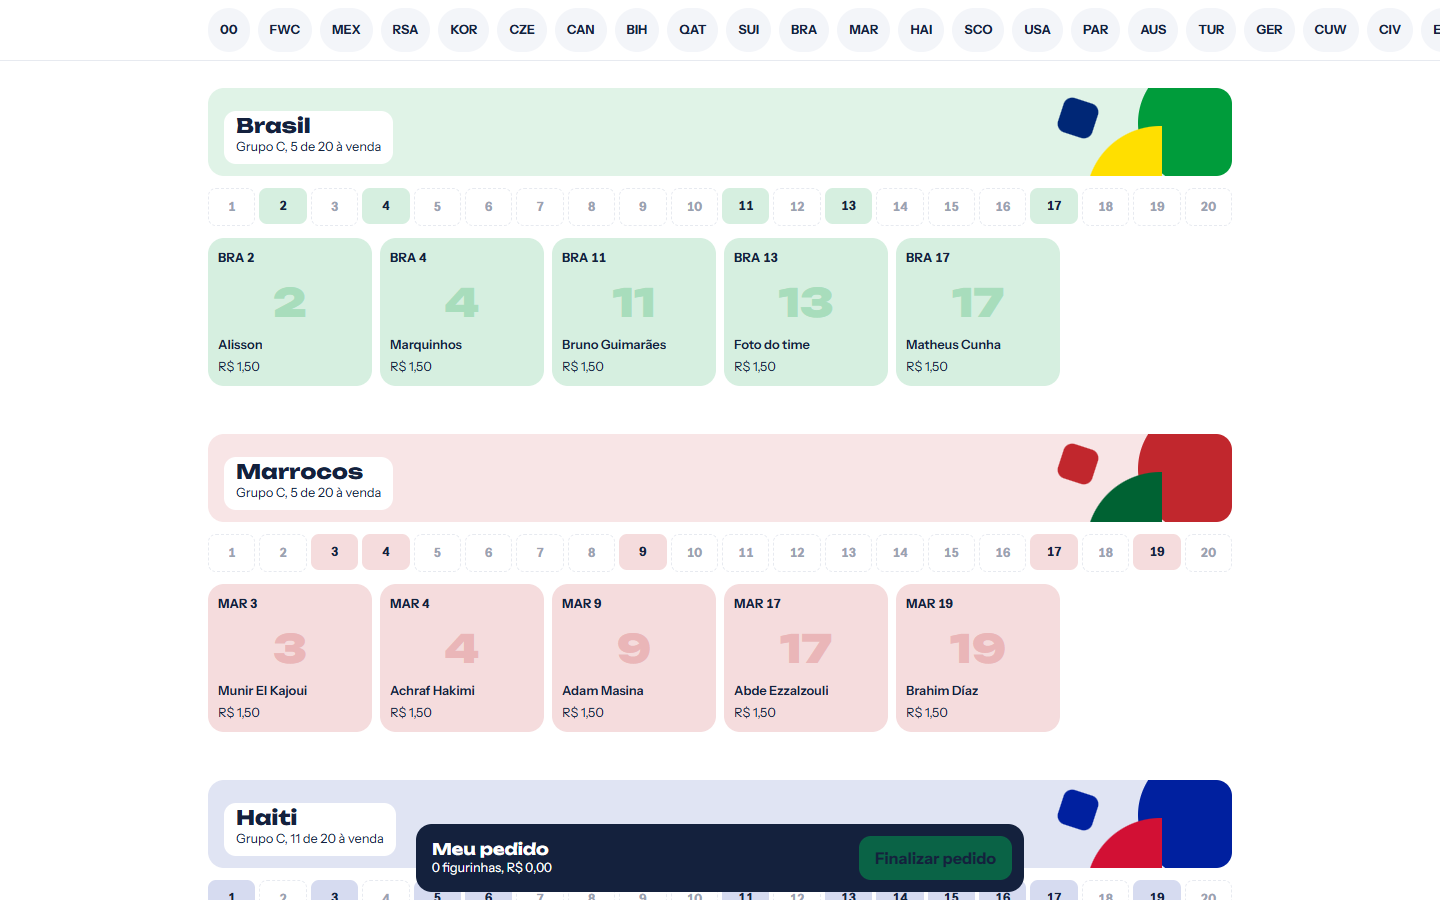
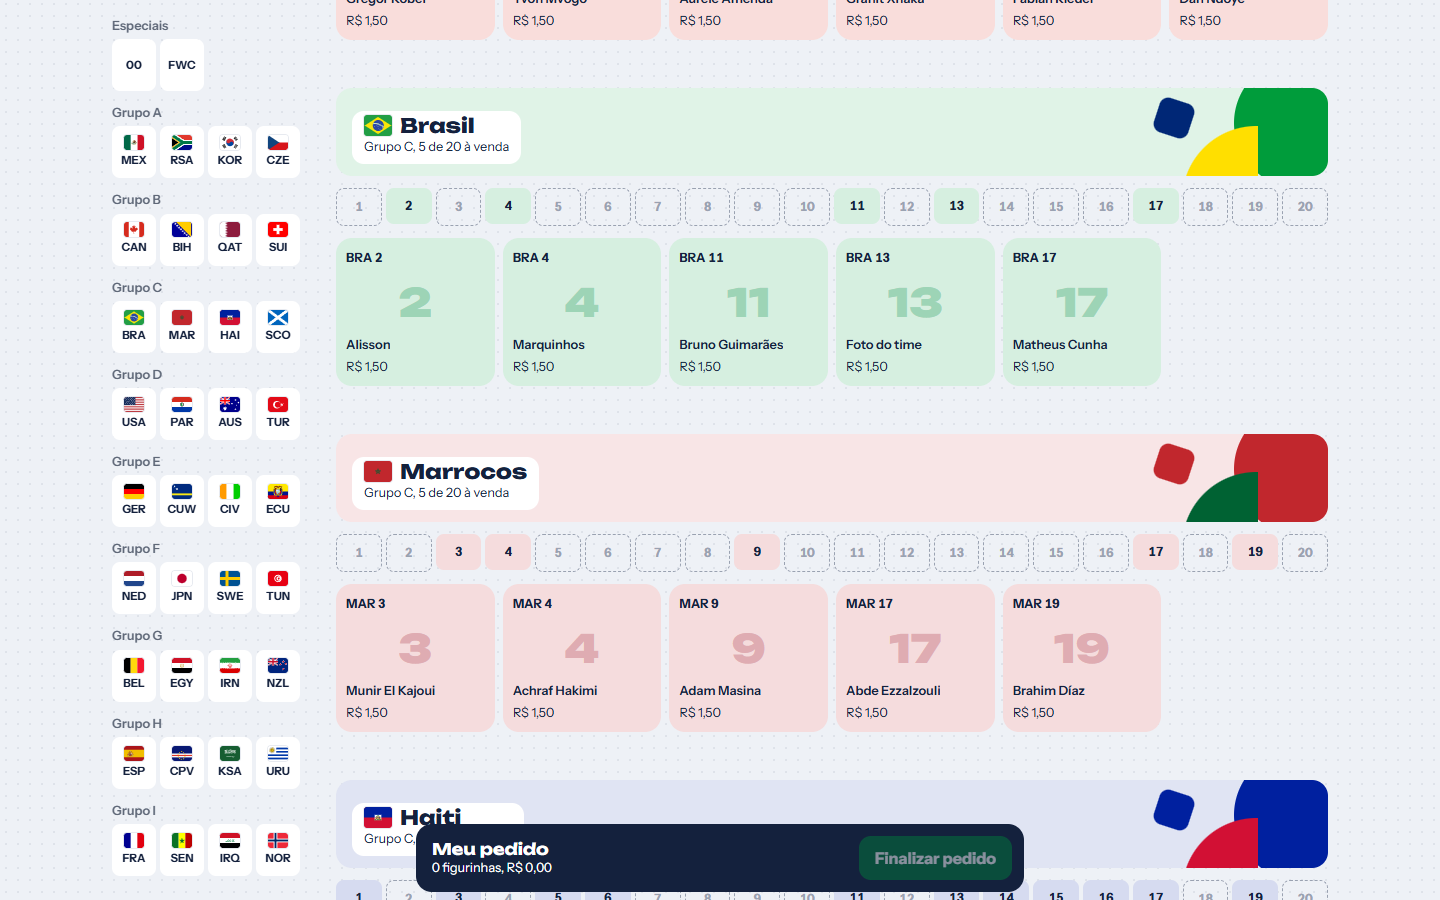
docs: fundo, bandeiras, índice lateral e ausência de imagens das figurinhas

diff --git a/docs/design-system.md b/docs/design-system.md
@@ -60,6 +60,10 @@ Das três variações do protótipo, a escolha foi uma **mistura**, montada como
 
 - **Tema:** só claro. Sem botão de tema e sem seguir a preferência do sistema.
 - **Layout:** mobile-first. No celular, o conteúdo ocupa a tela com margem de 1rem. Em telas largas, fica numa coluna de no máximo `--largura-conteudo` (64rem), centralizada, com a grade de espaços se adaptando à largura (3 colunas no celular, 6 no desktop), a tira de números numa linha só e a barra do pedido como pílula centralizada de até `--largura-leitura` (38rem). [Tela no desktop](./design/layout-desktop.png).
+- **Índice de seleções:** no celular é uma lista horizontal de arrastar. No desktop largo (a partir de 72rem), vira uma **barra lateral fixa agrupada por Grupo**, como a tabela de grupos da Copa, e a coluna de conteúdo cresce para 76rem.
+- **Fundo:** azul-acinzentado bem claro (`#EEF1F6`) com uma **retícula de impressão** sutil (`--textura-fundo`), e os elementos de destaque (espaços, rótulos, caixas, campos) em **superfície branca** por cima. O branco puro em tela cheia cansava a vista, e isso resolve para todo mundo, sem precisar de tema escuro. Bege foi evitado de propósito, porque é o clichê nº 1 de design gerado por IA. Com o fundo novo, o teste de contraste reprovou o verde de ação antigo, que foi escurecido para `#007A3B`, com texto branco.
+- **Bandeiras:** SVGs do projeto open source [flag-icons](https://github.com/lipis/flag-icons) (licença MIT, cópia em [`src/assets/bandeiras/LICENSE`](../src/assets/bandeiras/LICENSE)), só as 48 que usamos. Aparecem no índice e no rótulo de cada Seção, sempre com um contorno fino, para as bandeiras brancas (Japão, Inglaterra) não sumirem. Não usamos emoji de bandeira porque ele **não funciona no Windows**: o Edge e o Chrome mostram as letras ("BR") em vez da bandeira.
+- **Sem imagens das figurinhas:** não existe API oficial, e a arte é da Panini. O numeral gigante cumpre o papel visual. Se o Vendedor quiser, a coluna Imagem aceita fotos que ele mesmo tirar.
 - **Tokens em duas camadas**, em CSS custom properties:
   - *primitivos*: valores brutos (`--green-700: …`);
   - *semânticos*: o uso (`--color-action: var(--green-700)`).
